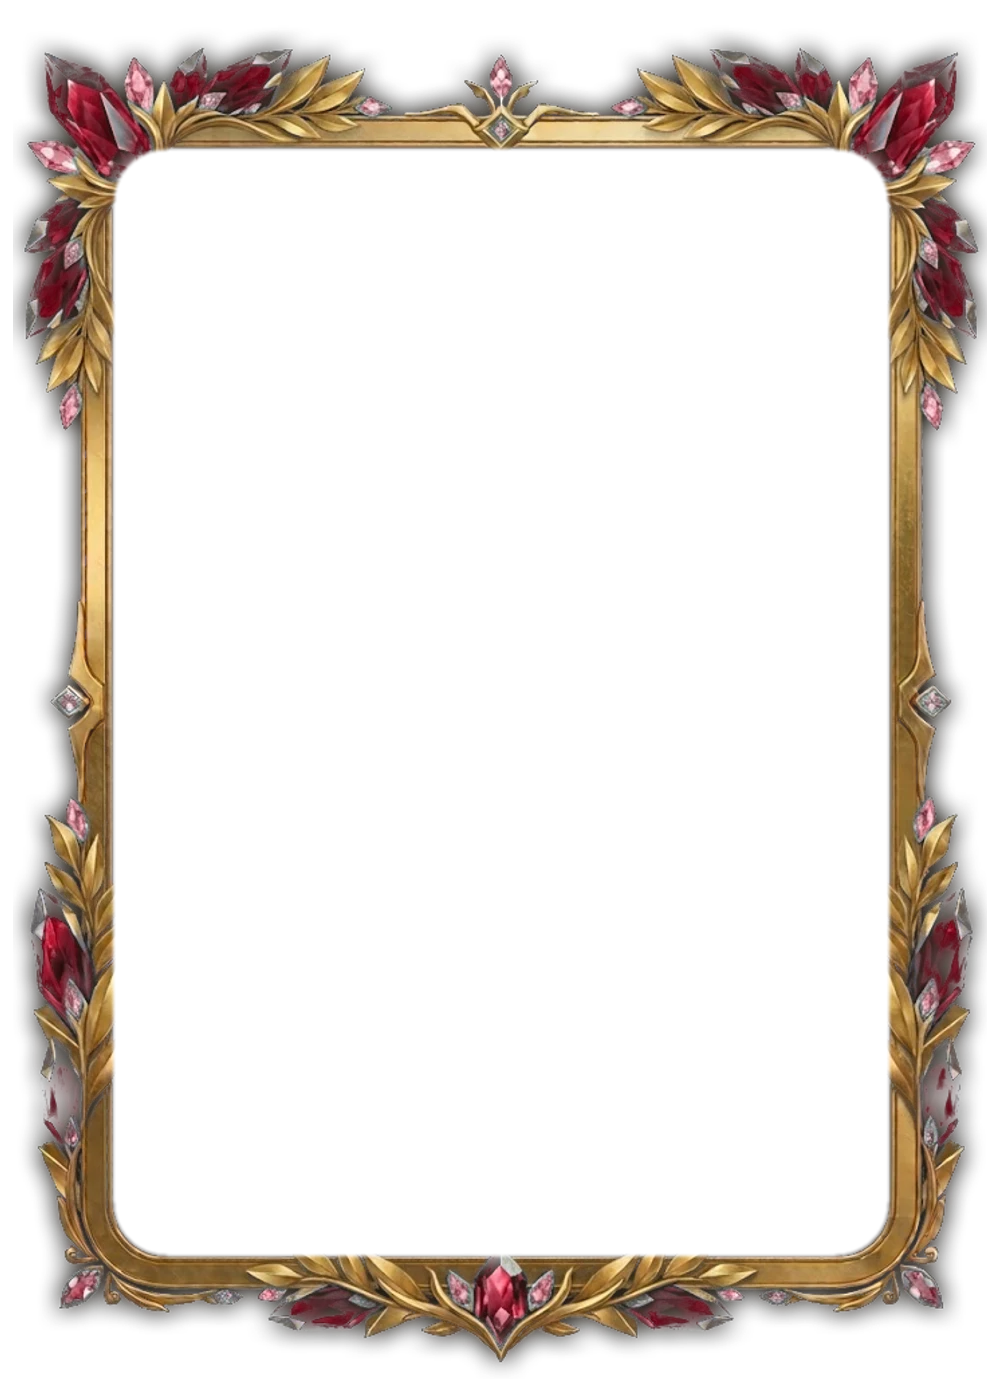
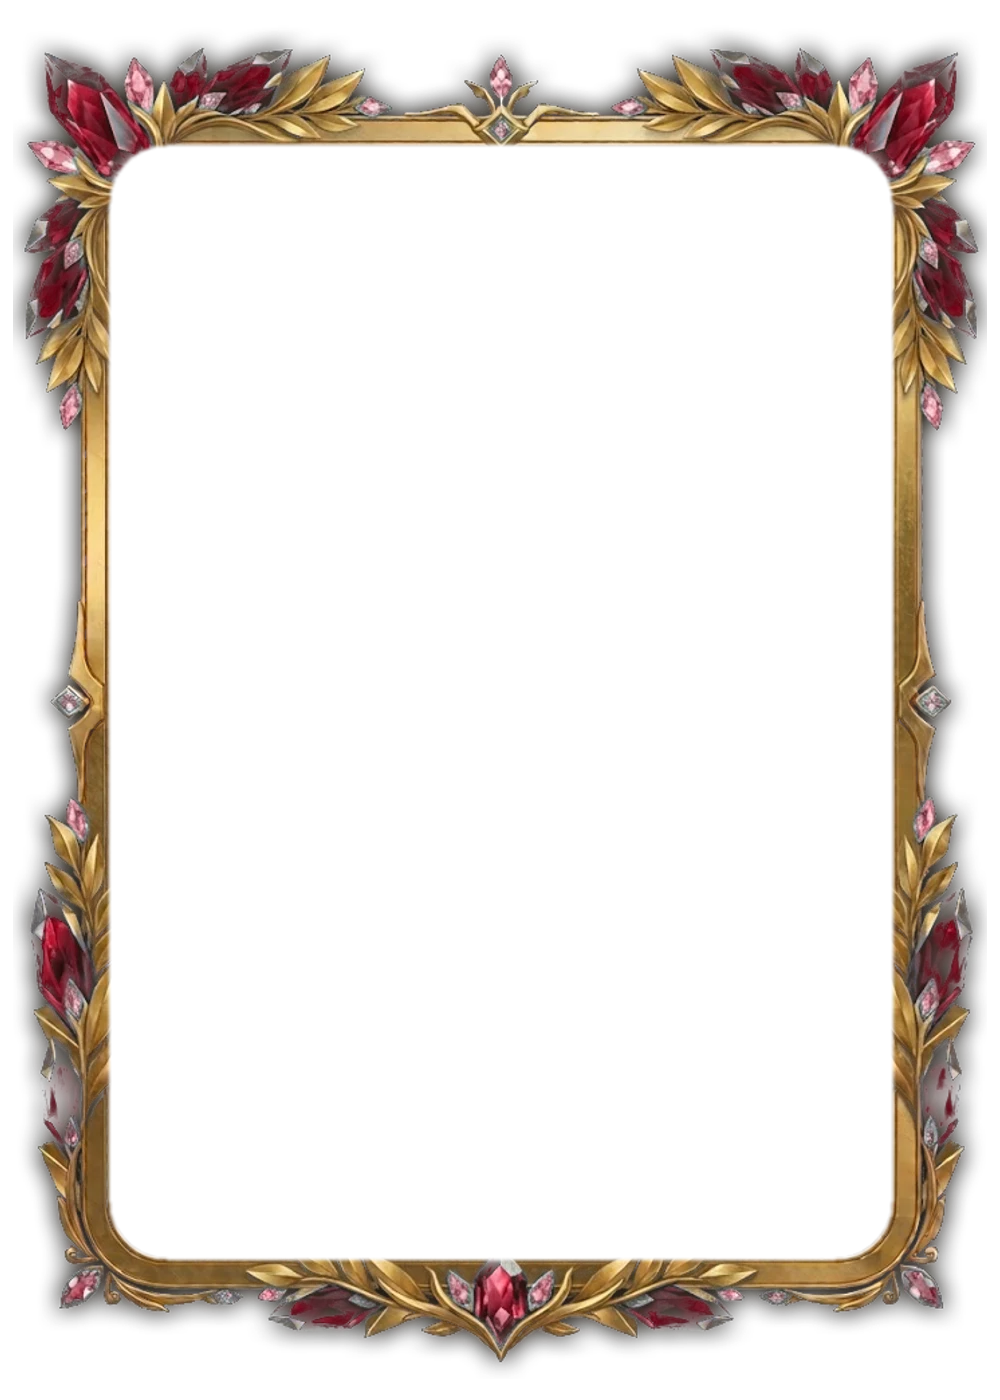
fix dark seam at frame inner edge and shadow overlays on thin-frame cards
Claude-Session: https://claude.ai/code/session_01N8XLJoyFiwvoZXFrULaieo

Changed region(s): [[0.124, 0.0921, 0.899, 0.8907], [0.093, 0.1229, 0.124, 0.8907], [0.124, 0.8907, 0.868, 0.9214]]

diff --git a/components/cancha-card.tsx b/components/cancha-card.tsx
@@ -149,7 +149,7 @@ const ROUPAS = {
   esmeralda: { background: "premium-esmeralda", overflow: "premium-esmeralda-vaza", overflowWidth: 774 / 714, artFrame: true, trim: null, metal: ["#0f6b45", "#0f6b45", "#5fd39a"], accent: "#5fd39a", light: "160 255 200", bar: "#03140c", muted: "#9fffc8", sparkles: false, neon: "#2dffa0" },
   safira: { background: "premium-safira", overflow: "premium-safira-vaza", overflowWidth: 774 / 714, artFrame: true, trim: null, metal: ["#1d4fa8", "#1d4fa8", "#7fb0ff"], accent: "#7fb0ff", light: "170 200 255", bar: "#040a1c", muted: "#a9c8ff", sparkles: false, neon: "#36a6ff" },
   ametista: { background: "premium-ametista", overflow: "premium-ametista-vaza", overflowWidth: 774 / 714, artFrame: true, trim: null, metal: ["#5b2fa0", "#5b2fa0", "#b99bff"], accent: "#b99bff", light: "220 190 255", bar: "#0e0620", muted: "#d2bcff", sparkles: false, neon: "#c46bff" },
-  rubi: { background: "premium-rubi-fino", overflow: "premium-rubi-fino-vaza", artInset: { x: 3.81, y: 2.72, radius: 6.2 }, window: "ring", windowInset: { x: 3.81, y: 2.72 }, windowRadius: 6.2, contentPad: 3.87, artFrame: true, trim: null, metal: ["#9b1530", "#9b1530", "#ff8fa3"], accent: "#ff8fa3", light: "255 190 200", bar: "#1a0309", muted: "#ffb3c0", sparkles: false, neon: "#ff2f66" },
+  rubi: { background: "premium-rubi-fino", overflow: "premium-rubi-fino-vaza", artInset: { x: 3.33, y: 2.38, radius: 6.6 }, window: "ring", windowInset: { x: 3.33, y: 2.38 }, windowRadius: 6.6, contentPad: 4.35, artFrame: true, trim: null, metal: ["#9b1530", "#9b1530", "#ff8fa3"], accent: "#ff8fa3", light: "255 190 200", bar: "#1a0309", muted: "#ffb3c0", sparkles: false, neon: "#ff2f66" },
   // Ícone: branco creme com moldura de ouro claro, lembrando a carta Icon do FIFA (2026-10-29).
   // Voltagem (2026-11-05, pedido do dono do app: o estilo da borda da referência dele no nosso retângulo): fio duplo de ouro pálido por dentro e
   // linhas de neon por fora, com o degrau onde se dividem (`prototipos/voltagem.cjs`). Janela `ring` recuada até o fio de dentro.
@@ -158,7 +158,7 @@ const ROUPAS = {
   // Maré (2026-11-05, teste do kit em camadas: fundo e borda feitos no Gemini com o gabarito 5:7, montados por `prototipos/montar-carta.cjs`):
   // tromba-d'água num mar de enchente e moldura de ouro com a "capa" de lâminas nos cantos de baixo. Janela padrão (`ring`, 64,5 px da caixa).
   mare: { background: "premium-mare", overflow: "premium-mare-vaza", artInset: { x: 3.69, y: 2.64, radius: 4.5 }, window: "ring", windowInset: { x: 3.69, y: 2.64 }, windowRadius: 4.5, contentPad: 3.99, artFrame: true, clean: true, trim: null, metal: ["#b8902f", "#b8902f", "#fff1c2"], accent: "#f3d27a", light: "120 230 255", bar: "#031018", muted: "#bfeeff", sparkles: false, neon: "#f3d27a" },
-  icone: { background: "premium-icone-fino", clean: true, overflow: "premium-icone-fino-vaza", artInset: { x: 3.81, y: 2.72, radius: 6.2 }, window: "ring", windowInset: { x: 3.81, y: 2.72 }, windowRadius: 6.2, contentPad: 3.87, artFrame: true, trim: null, metal: ["#c9a24e", "#c9a24e", "#fff4d6"], accent: "#e2c06e", light: "255 240 200", bar: "#1a140a", muted: "#f0dfb5", sparkles: false, neon: "#ffcf4d" },
+  icone: { background: "premium-icone-fino", clean: true, overflow: "premium-icone-fino-vaza", artInset: { x: 3.33, y: 2.38, radius: 6.6 }, window: "ring", windowInset: { x: 3.33, y: 2.38 }, windowRadius: 6.6, contentPad: 4.35, artFrame: true, trim: null, metal: ["#c9a24e", "#c9a24e", "#fff4d6"], accent: "#e2c06e", light: "255 240 200", bar: "#1a140a", muted: "#f0dfb5", sparkles: false, neon: "#ffcf4d" },
   // Aurora (2026-11-04, GUARDADA: o dono gostou mas pediu para não aplicar ainda; não está em `CARD_SKINS`, então não aparece na Loja.
   // Para usar: entrada em `CARD_SKINS` (sugestão nível 14, 1600 CC), `case` em `skinRoupa` e `SKIN_CLASSES`): aurora boreal renderizada pixel a pixel em código (`prototipos/premium-aurora.cjs`), fio de ouro, respiro preto,
   // tubo de neon verde-água por fora e a Estrela Polar no topo; a luz da aurora vaza sobre a moldura. Concêntrica: windowRadius = raio da carta − o aro.
@@ -871,6 +871,7 @@ export function CanchaCard({ player, award, className, photoSizes, photoFrame = 
         {!roupa.clean && (
         <div
           aria-hidden
+          style={roupa.contentPad ? { top: `calc(16% + ${roupa.contentPad}cqw)` } : undefined}
           className={cn(
             "absolute inset-x-0 top-[16%] bottom-0 z-[6]",
             roupa.matte
@@ -895,7 +896,7 @@ export function CanchaCard({ player, award, className, photoSizes, photoFrame = 
           />
         ))}
         {!roupa.clean && (
-          <div aria-hidden className={cn("absolute inset-x-0 bottom-[12%] z-[7] bg-linear-to-b from-transparent to-(--cc-bar)", frame.fade)} />
+          <div aria-hidden style={roupa.contentPad ? { bottom: `calc(12% + ${roupa.contentPad - 0.8}cqw)` } : undefined} className={cn("absolute inset-x-0 bottom-[12%] z-[7] bg-linear-to-b from-transparent to-(--cc-bar)", frame.fade)} />
         )}
 
         <div
